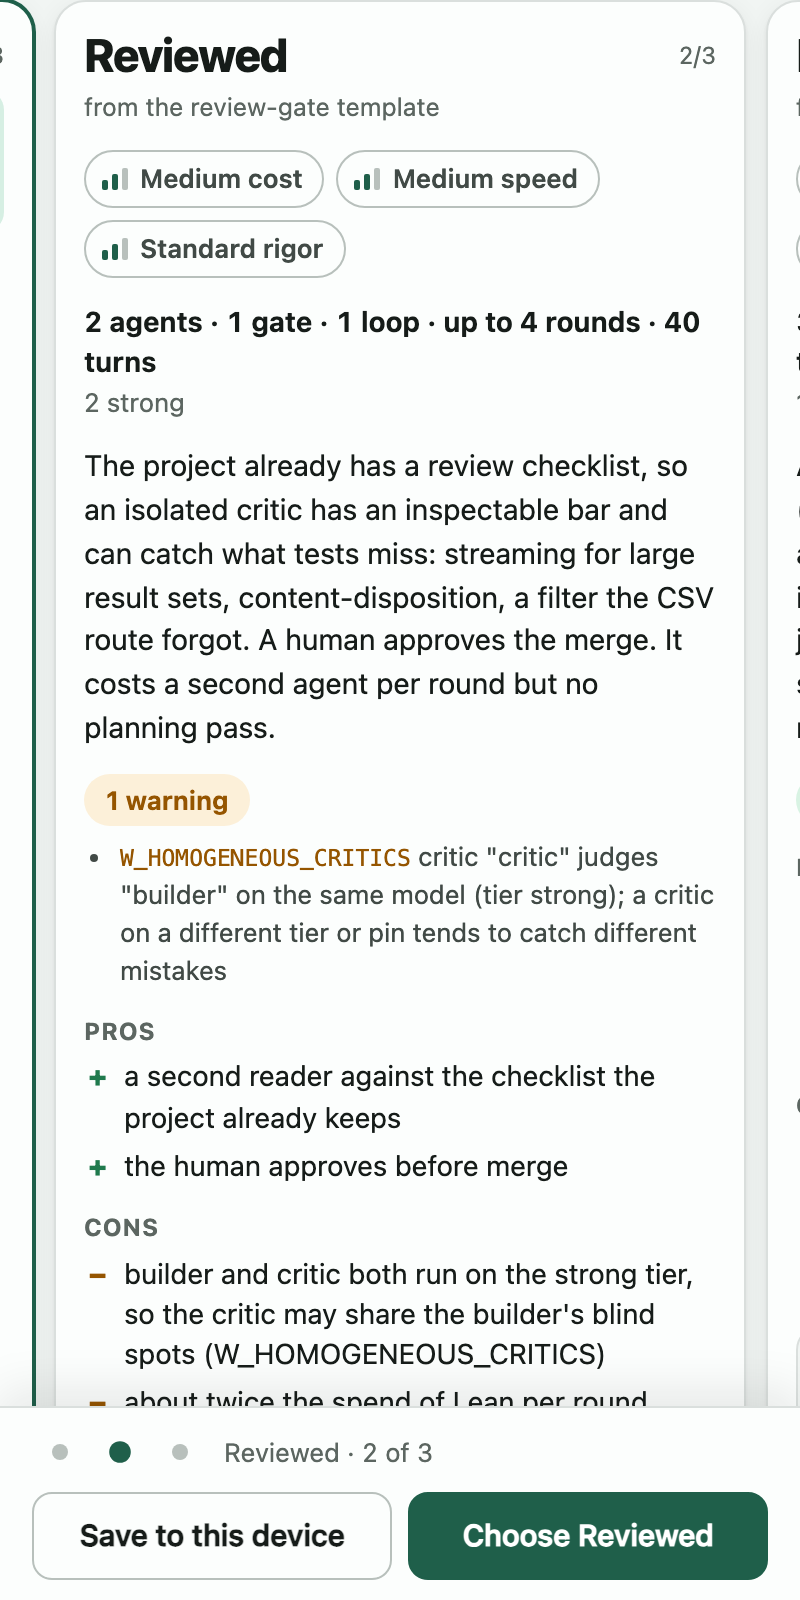
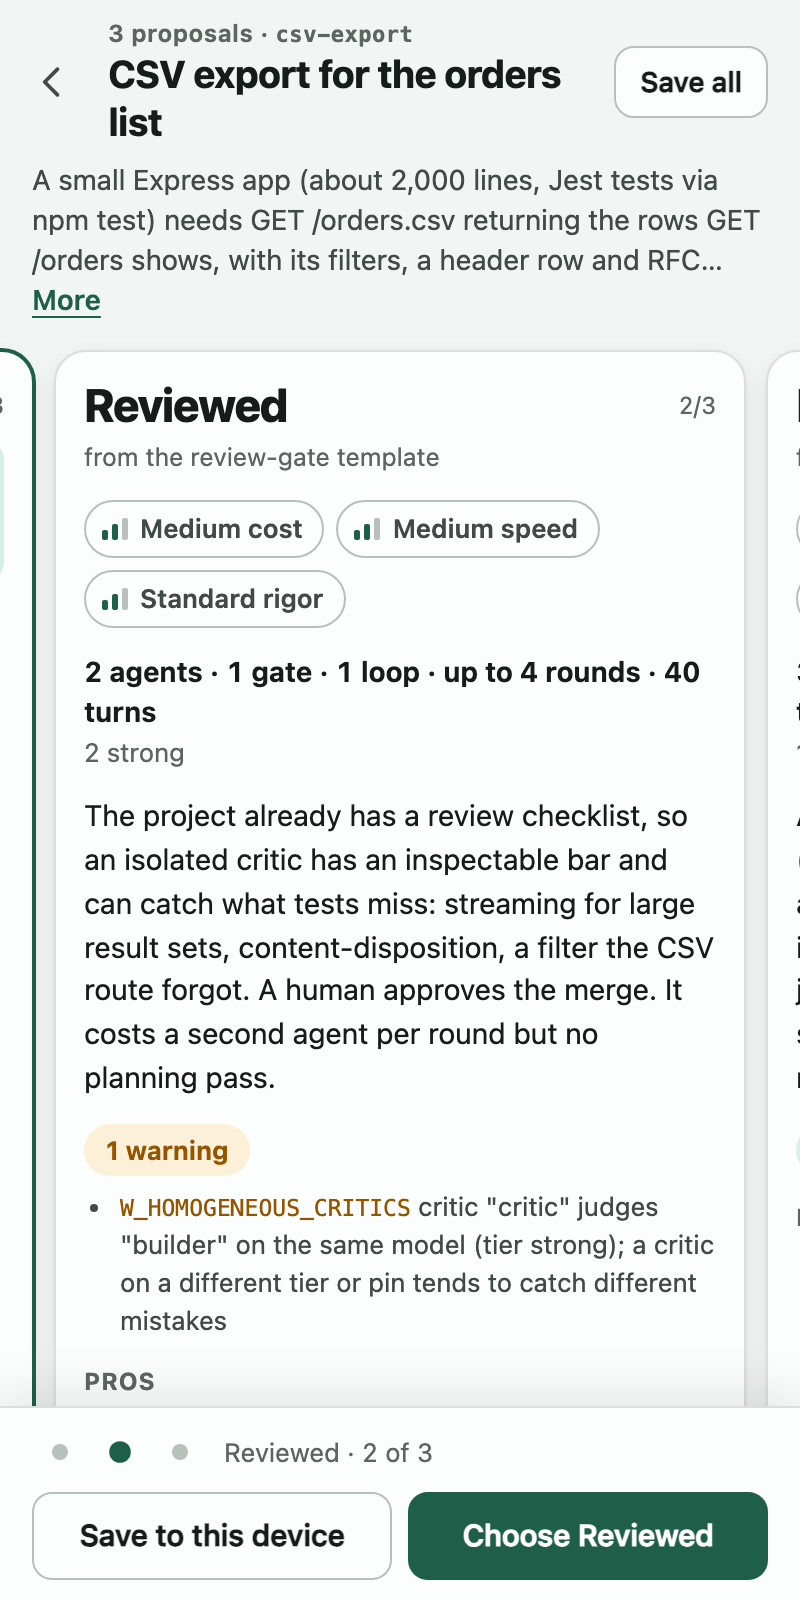
handoffs: rehearsal transcript and screenshots for slice 0006; web: pager dots scroll sideways only

diff --git a/apps/web/src/ui/open/Compare.tsx b/apps/web/src/ui/open/Compare.tsx
@@ -87,9 +87,15 @@ export function Compare({ set, setIssues, payload }: { set: ProposalSet; setIssu
     };
   }, []);
 
+  // Sideways only: the page stays where the reader left it.
   const show = useCallback((i: number) => {
-    const card = track.current?.children[i] as HTMLElement | undefined;
-    card?.scrollIntoView({ behavior: matchMedia("(prefers-reduced-motion: reduce)").matches ? "auto" : "smooth", inline: "center", block: "nearest" });
+    const el = track.current;
+    const card = el?.children[i] as HTMLElement | undefined;
+    if (!el || !card) return;
+    el.scrollTo({
+      left: card.offsetLeft - (el.clientWidth - card.offsetWidth) / 2,
+      behavior: matchMedia("(prefers-reduced-motion: reduce)").matches ? "auto" : "smooth",
+    });
   }, []);
 
   const choose = async (c: Candidate) => {

diff --git a/docs/PROGRESS.md b/docs/PROGRESS.md
@@ -21,6 +21,7 @@ The one file that says where grooph is right now. The driver rewrites it after e
 - 2026-09-18 · criterion 5 met: `#/open?d=…` opens a graph read-only or the compare view; nothing stored until Save; no export from a link; bad links explained; `e2e/open.spec.ts` 9 tests (graph link, three-candidate link, swipe, Choose, Save then edit, full graph, damaged links, `--out` import, desktop side by side).
 - 2026-09-18 · criterion 6 met: on a phone a card's label, badge with its reason, profile, shape line and rationale sit above the action bar (asserted in `e2e/open.spec.ts`); compact auto-laid-out mini canvas; pros and cons as lists; screenshots (phone light and dark, desktop, full graph, damaged link) in `handoffs/0006-executive-path/`.
 - 2026-09-18 · criterion 7 met: `.claude-plugin/marketplace.json` and `plugins/grooph/.claude-plugin/plugin.json` pass `claude plugin validate --strict` (2.1.276, scratch HOME); `scripts/install-local.sh` (links CLI and skill, prints the plan first, idempotent, `--dry-run`, `--uninstall`) tested only against a throwaway HOME by `scripts/test-install-local.sh`, also in CI.
+- 2026-09-18 · criterion 9 met: rehearsal by hand in a made-up Express app (three candidates from `grind-loop`, `review-gate`, `spec-then-loop`; `grooph share --base` against the local build, 4,902-character link; "the second one, but critic on another tier" via `grooph apply`; `grooph pick`; `grooph export --into`); transcript and phone screenshots in the slice folder. No model run.
 
 ## Waiting on the owner
 
